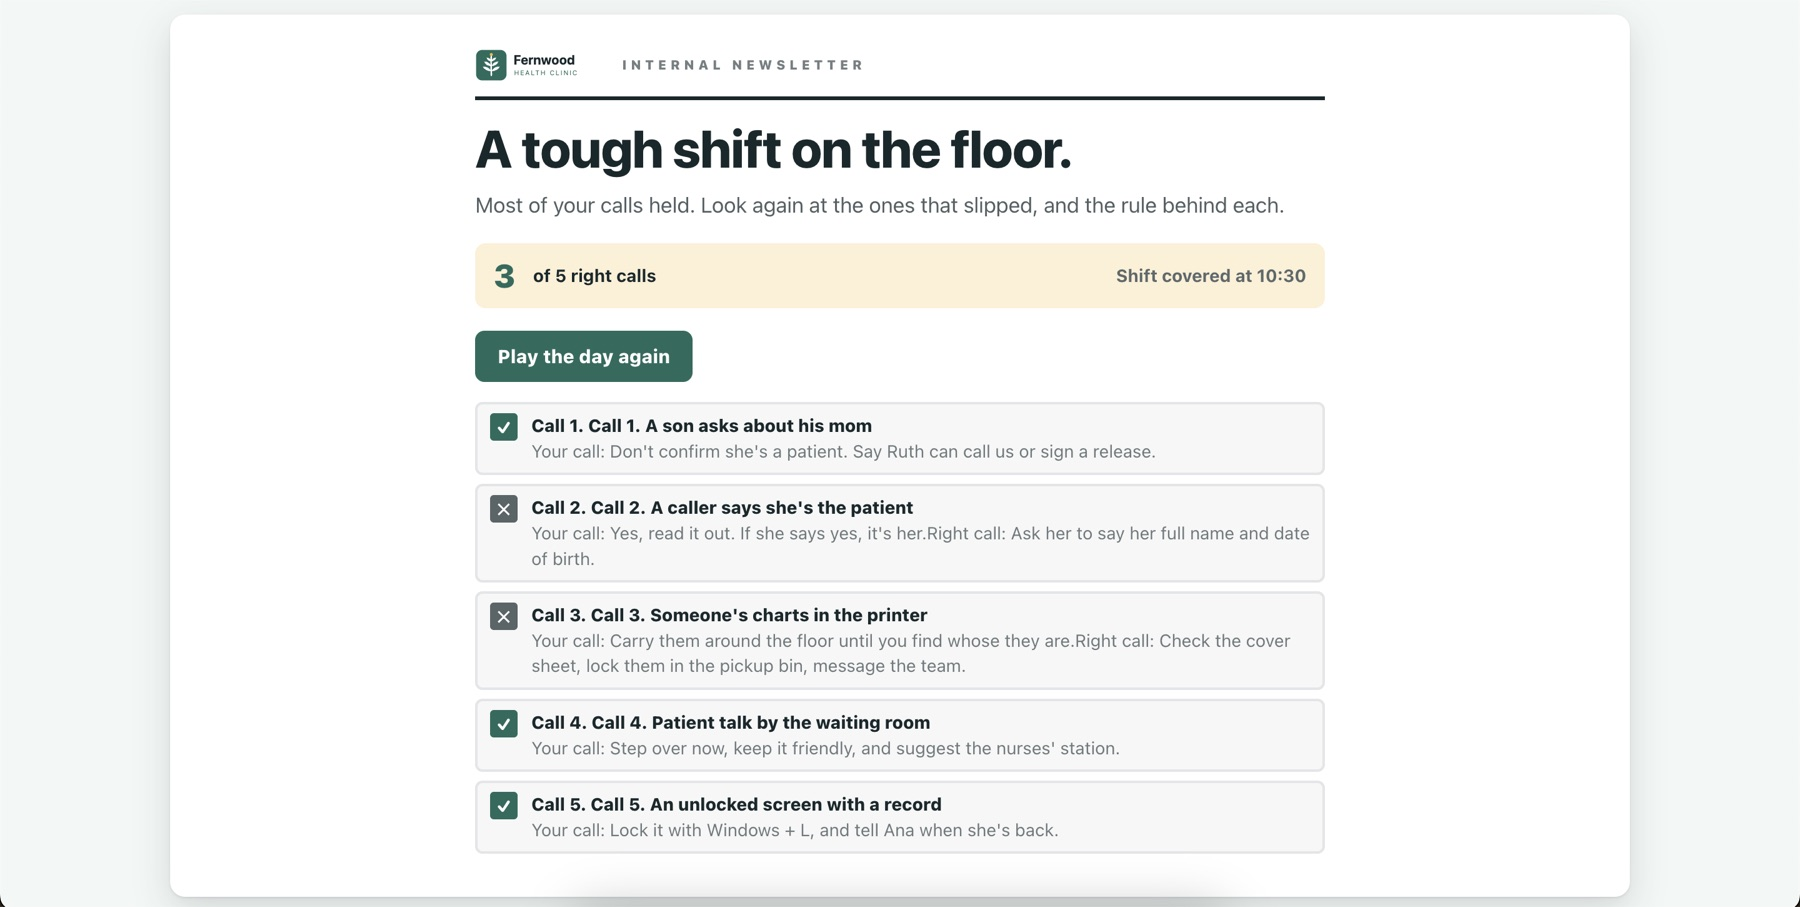
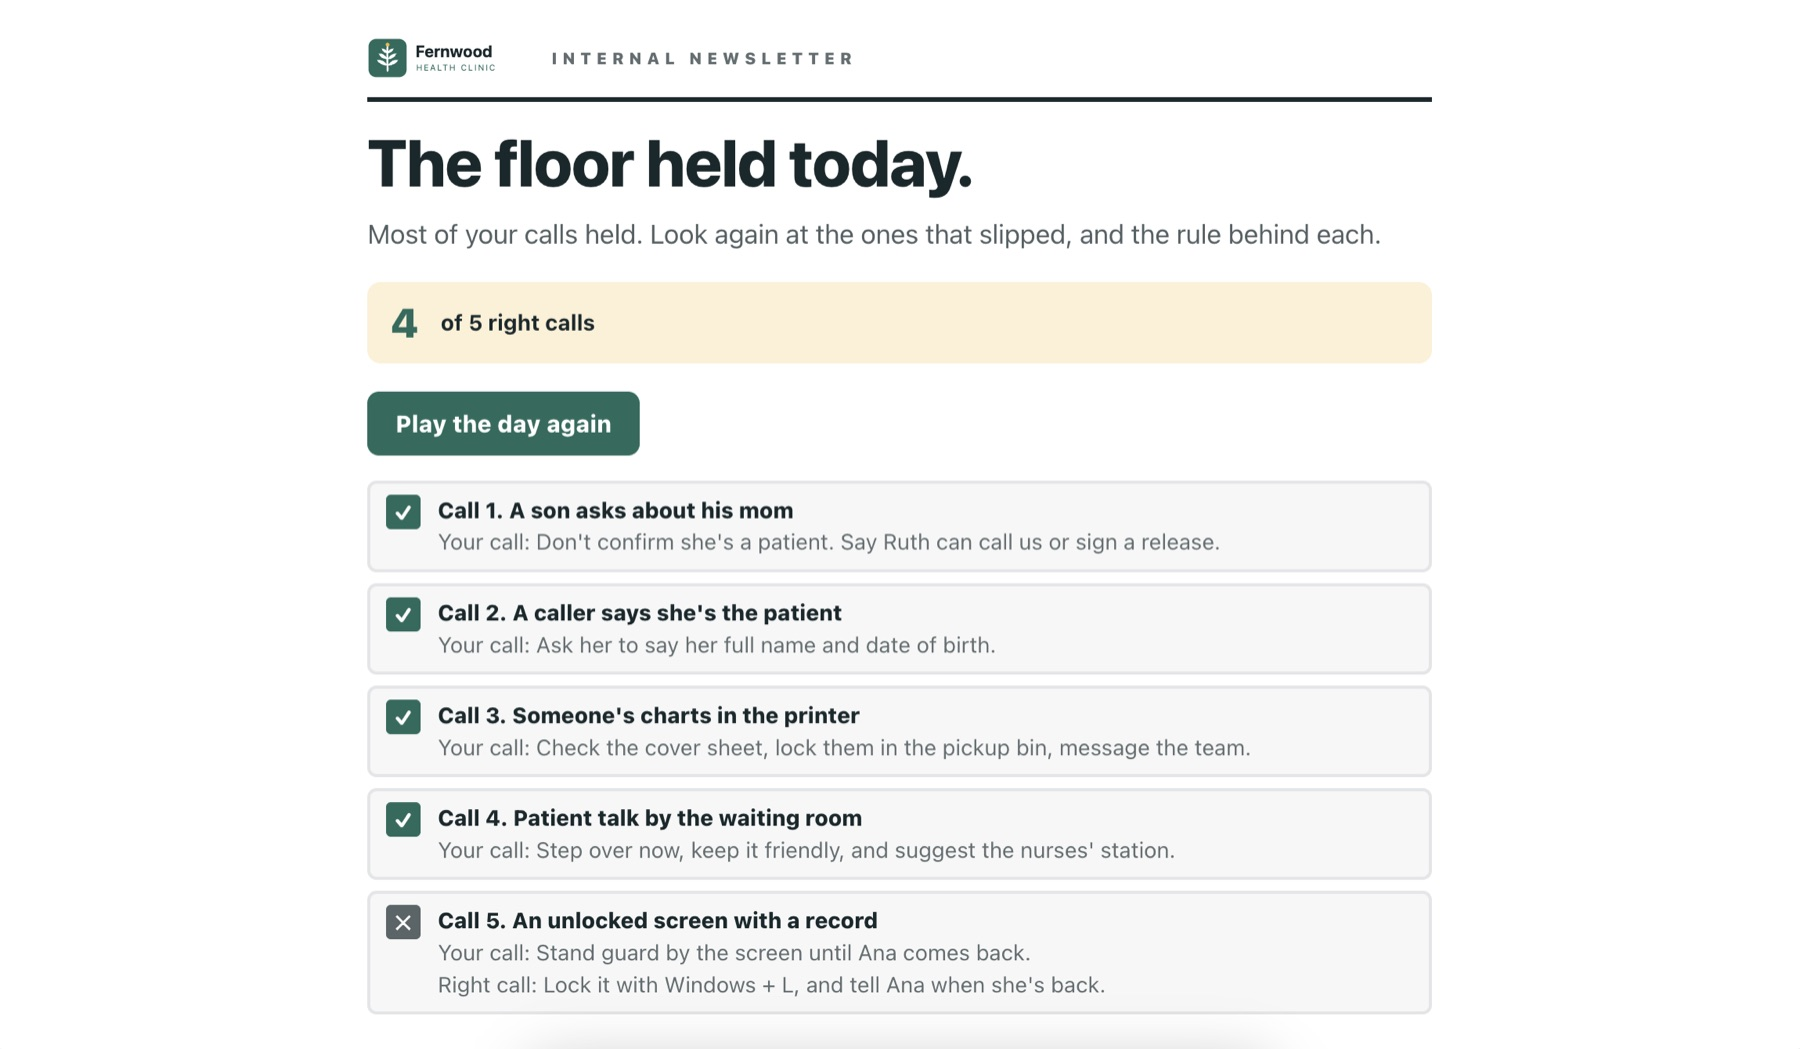
Fernwood case study: new title and newsletter screenshots; copy matches the final draft
- Time references removed (9:00 to 5:00, By 5:00, time off the clock)
- New Consequences paragraph, playtesting paragraph and feedback table
- Alt text rewritten for the new screenshots

diff --git a/content.js b/content.js
@@ -498,7 +498,7 @@ DETAILS["patient-information-confidentiality-policy-review"] = {
   body: [
     ["h2", "Summary"],
     ["p", "I turned an 11-page patient privacy policy into a 7-minute game that staff can play in their browser."],
-    ["p", "The learner spends one workday on the floor at Fernwood Health Clinic. Five coworkers each bring one privacy question. Every call has a cost, and every right answer traces back to a line in the policy."],
+    ["p", "The learner spends one workday on the floor at Fernwood Health Clinic. Five coworkers each bring one privacy question. Every call has a consequence, and every right answer traces back to a line in the policy."],
     ["p", "Fernwood is a fictional clinic I created for this project. The policy, the people, and the problems are invented, but they are modeled on the privacy situations real clinic staff face every day."],
     ["h2", "The Challenge"],
     ["p", "Fernwood's privacy policy is 11 pages long. It covers everything. Release forms, caller verification, printed records, workstation security, incident reporting. It is accurate and complete."],
@@ -506,7 +506,7 @@ DETAILS["patient-information-confidentiality-policy-review"] = {
     ["p", "Staff sign an acknowledgment once a year. They scroll to the bottom, check the box, and go back to work. The policy exists, but it doesn't live on the floor."],
     ["h2", "Designing the Experience"],
     ["h3", "1. One shift, five calls"],
-    ["p", "The learner plays a supervisor on the clinic floor from 9:00 to 5:00. Coworkers sit at their desks and call out when they need help: \"Jo, got a sec?\""],
+    ["p", "The learner plays a supervisor on the clinic floor for one shift. Coworkers sit at their desks and call out when they need help: \"Jo, got a sec?\""],
     ["fig", F("Patient Privacy Rounds clinic floor in pixel art at 9:00: four offices along the top, a printer station, a conference table and a waiting area, with coworkers at their desks. A status bar reads Priya needs you. Walk over, or tap Priya.", "The clinic floor at 9:00. Coworkers call out when they need you.", "images/fernwood/floor.jpg")],
     ["p", "The learner walks over and hears the situation. Each call has three choices."],
     ["table", ["Call", "Coworker", "Situation", "Right call"], [
@@ -520,8 +520,8 @@ DETAILS["patient-information-confidentiality-policy-review"] = {
     ["p", "I didn't want one obvious answer and two silly ones. Every option is something a reasonable person might do."],
     ["p", "Each call has a right answer, a near miss, and a wrong answer. The near miss protects the patient but stops short, like standing guard by an unlocked screen instead of locking it. The wrong answer is usually the one that feels kind or efficient, like reading a chart to figure out whose it is."],
     ["h3", "3. Consequences you can see"],
-    ["p", "After every choice, the coworker responds in character. A near miss sounds like: \"I put her on hold to ask Lena. She was with a patient, and we lost half an hour.\""],
-    ["p", "A sign then appears over their desk for the rest of the day. \"Family isn't automatic access\" for a right call. \"Whole chart read to route it\" for a wrong one. By 5:00, the floor is a map of every decision you made."],
+    ["p", "After every choice, the coworker responds in character. A right call gets a reply that says why it holds. A near miss gets a reply that names what was missed. A wrong call gets a coworker who simply goes along with it."],
+    ["p", "A sign then appears over their desk for the rest of the day. \"Family isn't automatic access\" for a right call. \"Whole chart read to route it\" for a wrong one. By the last call, the floor is a map of every decision you made."],
     ["h3", "4. A coach, not a quiz"],
     ["p", "After a wrong call, Lena walks across the floor to talk it through. She doesn't just say \"incorrect.\" She names what was right about the instinct, then the rule: \"Returning them is right, but reading the whole chart isn't. Read only what you need to route it.\""],
     ["h3", "5. The end-of-day newsletter"],
@@ -533,7 +533,7 @@ DETAILS["patient-information-confidentiality-policy-review"] = {
       ["Action mapping.", "I started from what staff need to do on the floor, not what the policy says. Five behaviors made the cut. Everything else in the 11 pages stayed in the policy."],
       ["Scenario-based learning.", "Every question is a moment from a real workday, told by a coworker in their own words. Learners practice the decision in the context where they'll actually make it."],
       ["Plausible distractors.", "Wrong answers are written as the things good people do for good reasons. If the wrong choice isn't tempting, the practice isn't real."],
-      ["Immediate, intrinsic feedback.", "The learner sees the result of a choice before being told it was wrong. Time disappears from the clock, a coworker reacts, a sign goes up. The consequence does the teaching."],
+      ["Immediate, intrinsic feedback.", "The learner sees the result of a choice before being told it was wrong. A coworker reacts, and a sign goes up over their desk. The consequence does the teaching."],
       ["Coaching after errors.", "Lena's walk-over turns a wrong answer into a short conversation. She respects the instinct and corrects the action."],
       ["Memorable rules.", "Each right call carries a short phrase: \"Family isn't automatic access.\" \"Two identifiers, every time.\" \"Step away, lock it.\" These are short enough to remember at the front desk."],
       ["Low-stakes practice.", "No one is graded on their first try. \"Play the day again\" is one click, and the closing screen reminds staff that reporting your own mistake carries no penalty. The game models that culture."],
@@ -559,16 +559,13 @@ DETAILS["patient-information-confidentiality-policy-review"] = {
     ["p", "Tracking is off by default outside the LMS. No learner data goes anywhere until the clinic decides what it needs and tells staff."],
     ["p", "The next step is hosting the game and testing it in a live LMS."],
     ["h2", "Playtesting"],
-    ["p", "I had someone play it with no instructions from me. I watched where they got stuck and fixed those spots."],
+    ["p", "I had a few friends review the training deck and play the game with no instructions from me, and I watched where they got stuck. I also posted it in The eLearning Designer's Academy community and received feedback from professional instructional designers."],
     ["p", "The biggest change: feedback moved to the end screen. In the first version, the full explanation came right after each choice, which interrupted the flow of the shift. Now the moment-to-moment feedback stays short and in character. The full breakdown, your call next to the right call, waits for the end of the day, when the learner is ready to reflect."],
-    ["table", ["What I saw", "What I changed"], [
-      ["They weren't sure what \"winning\" meant", "A goal chip on screen: 4 of 5 right calls and Lena signs you off"],
+    ["table", ["Feedback", "What I changed"], [
+      ["Not sure what \"winning\" means for this game", "A goal chip on screen: 4 of 5 right calls and Lena signs you off"],
       ["Wrong answers had no visible weight", "A sign over the coworker's desk for the rest of the day"],
       ["Feedback blended into the conversation", "Each coworker's reply became its own speech bubble"],
-      ["The office felt empty", "Coworkers sit at their desks and call out when they need you"],
-      ["The coaching felt abrupt", "Lena physically walks across the floor before she talks"],
-      ["It felt generic", "The learner's name replaces \"Jo\" in every line"],
-      ["The rule got lost mid-shift", "The end screen recaps every call with the right answer beside yours"],
+      ["The colors aren't WCAG compliant", "I updated the skill to check for non-compliant colors and find the nearest compliant match."],
     ]],
     ["h2", "Reflection"],
     ["p", "I built this project in about 7 hours, from storyboard through slide deck, game development, and testing."],
@@ -580,8 +577,8 @@ DETAILS["patient-information-confidentiality-policy-review"] = {
   ],
 };
 attach("patient-information-confidentiality-policy-review", "2. Realistic Choices", "right", F("Priya, front desk phones, Call 1 of 5: Elijah, got a minute? Line 2 is a man named Daniel asking for his mom Ruth's blood work results, with no signed release on file. Three answers: share them, don't confirm she's a patient and say Ruth can call or sign a release, or say you can't say and hang up.", "Call 1: three answers a reasonable person might pick.", "images/fernwood/call.jpg"));
-attach("patient-information-confidentiality-policy-review", "5. The end-of-day newsletter", "right", F("End-of-day internal newsletter headlined A tough shift on the floor: 3 of 5 right calls, shift covered at 10:30, a Play the day again button, and each call listed with a check or cross, your call, and the right call for misses.", "The end-of-day newsletter recaps every call.", "images/fernwood/newsletter.jpg"));
-attach("patient-information-confidentiality-policy-review", "Built for an LMS", "left", F("Patient Privacy Rounds title screen: the goal to keep patient information safe until the clinic closes at 5:00, four rules about the calls and the clock, an optional name box noting that a learning system fills it in, and a Let's start button.", "The learner inputs their name, and it’s tracked through the LMS.", "images/fernwood/title.jpg"));
+attach("patient-information-confidentiality-policy-review", "5. The end-of-day newsletter", "right", F("End-of-day internal newsletter headlined The floor held today: 4 of 5 right calls, a Play the day again button, and each call listed with a check or cross and your call. Call 5 is marked wrong, with the right call, lock it with Windows + L, shown beneath.", "The end-of-day newsletter recaps every call.", "images/fernwood/newsletter.jpg"));
+attach("patient-information-confidentiality-policy-review", "Built for an LMS", "left", F("Patient Privacy Rounds title screen: the goal to keep patient information safe on the floor, four rules about the five calls and getting at least four right, an optional name box filled in with Elijah Browne and a note that a learning system fills it in, and a Let's start button.", "The learner inputs their name, and it’s tracked through the LMS.", "images/fernwood/title.jpg"));
 // Storyboard and slide deck: their own sections after the Summary; the buttons jump here.
 figAfter("patient-information-confidentiality-policy-review", "Summary", ["h2", "Storyboard"]);
 figAfter("patient-information-confidentiality-policy-review", "Storyboard", ["carousel", "Storyboard",
